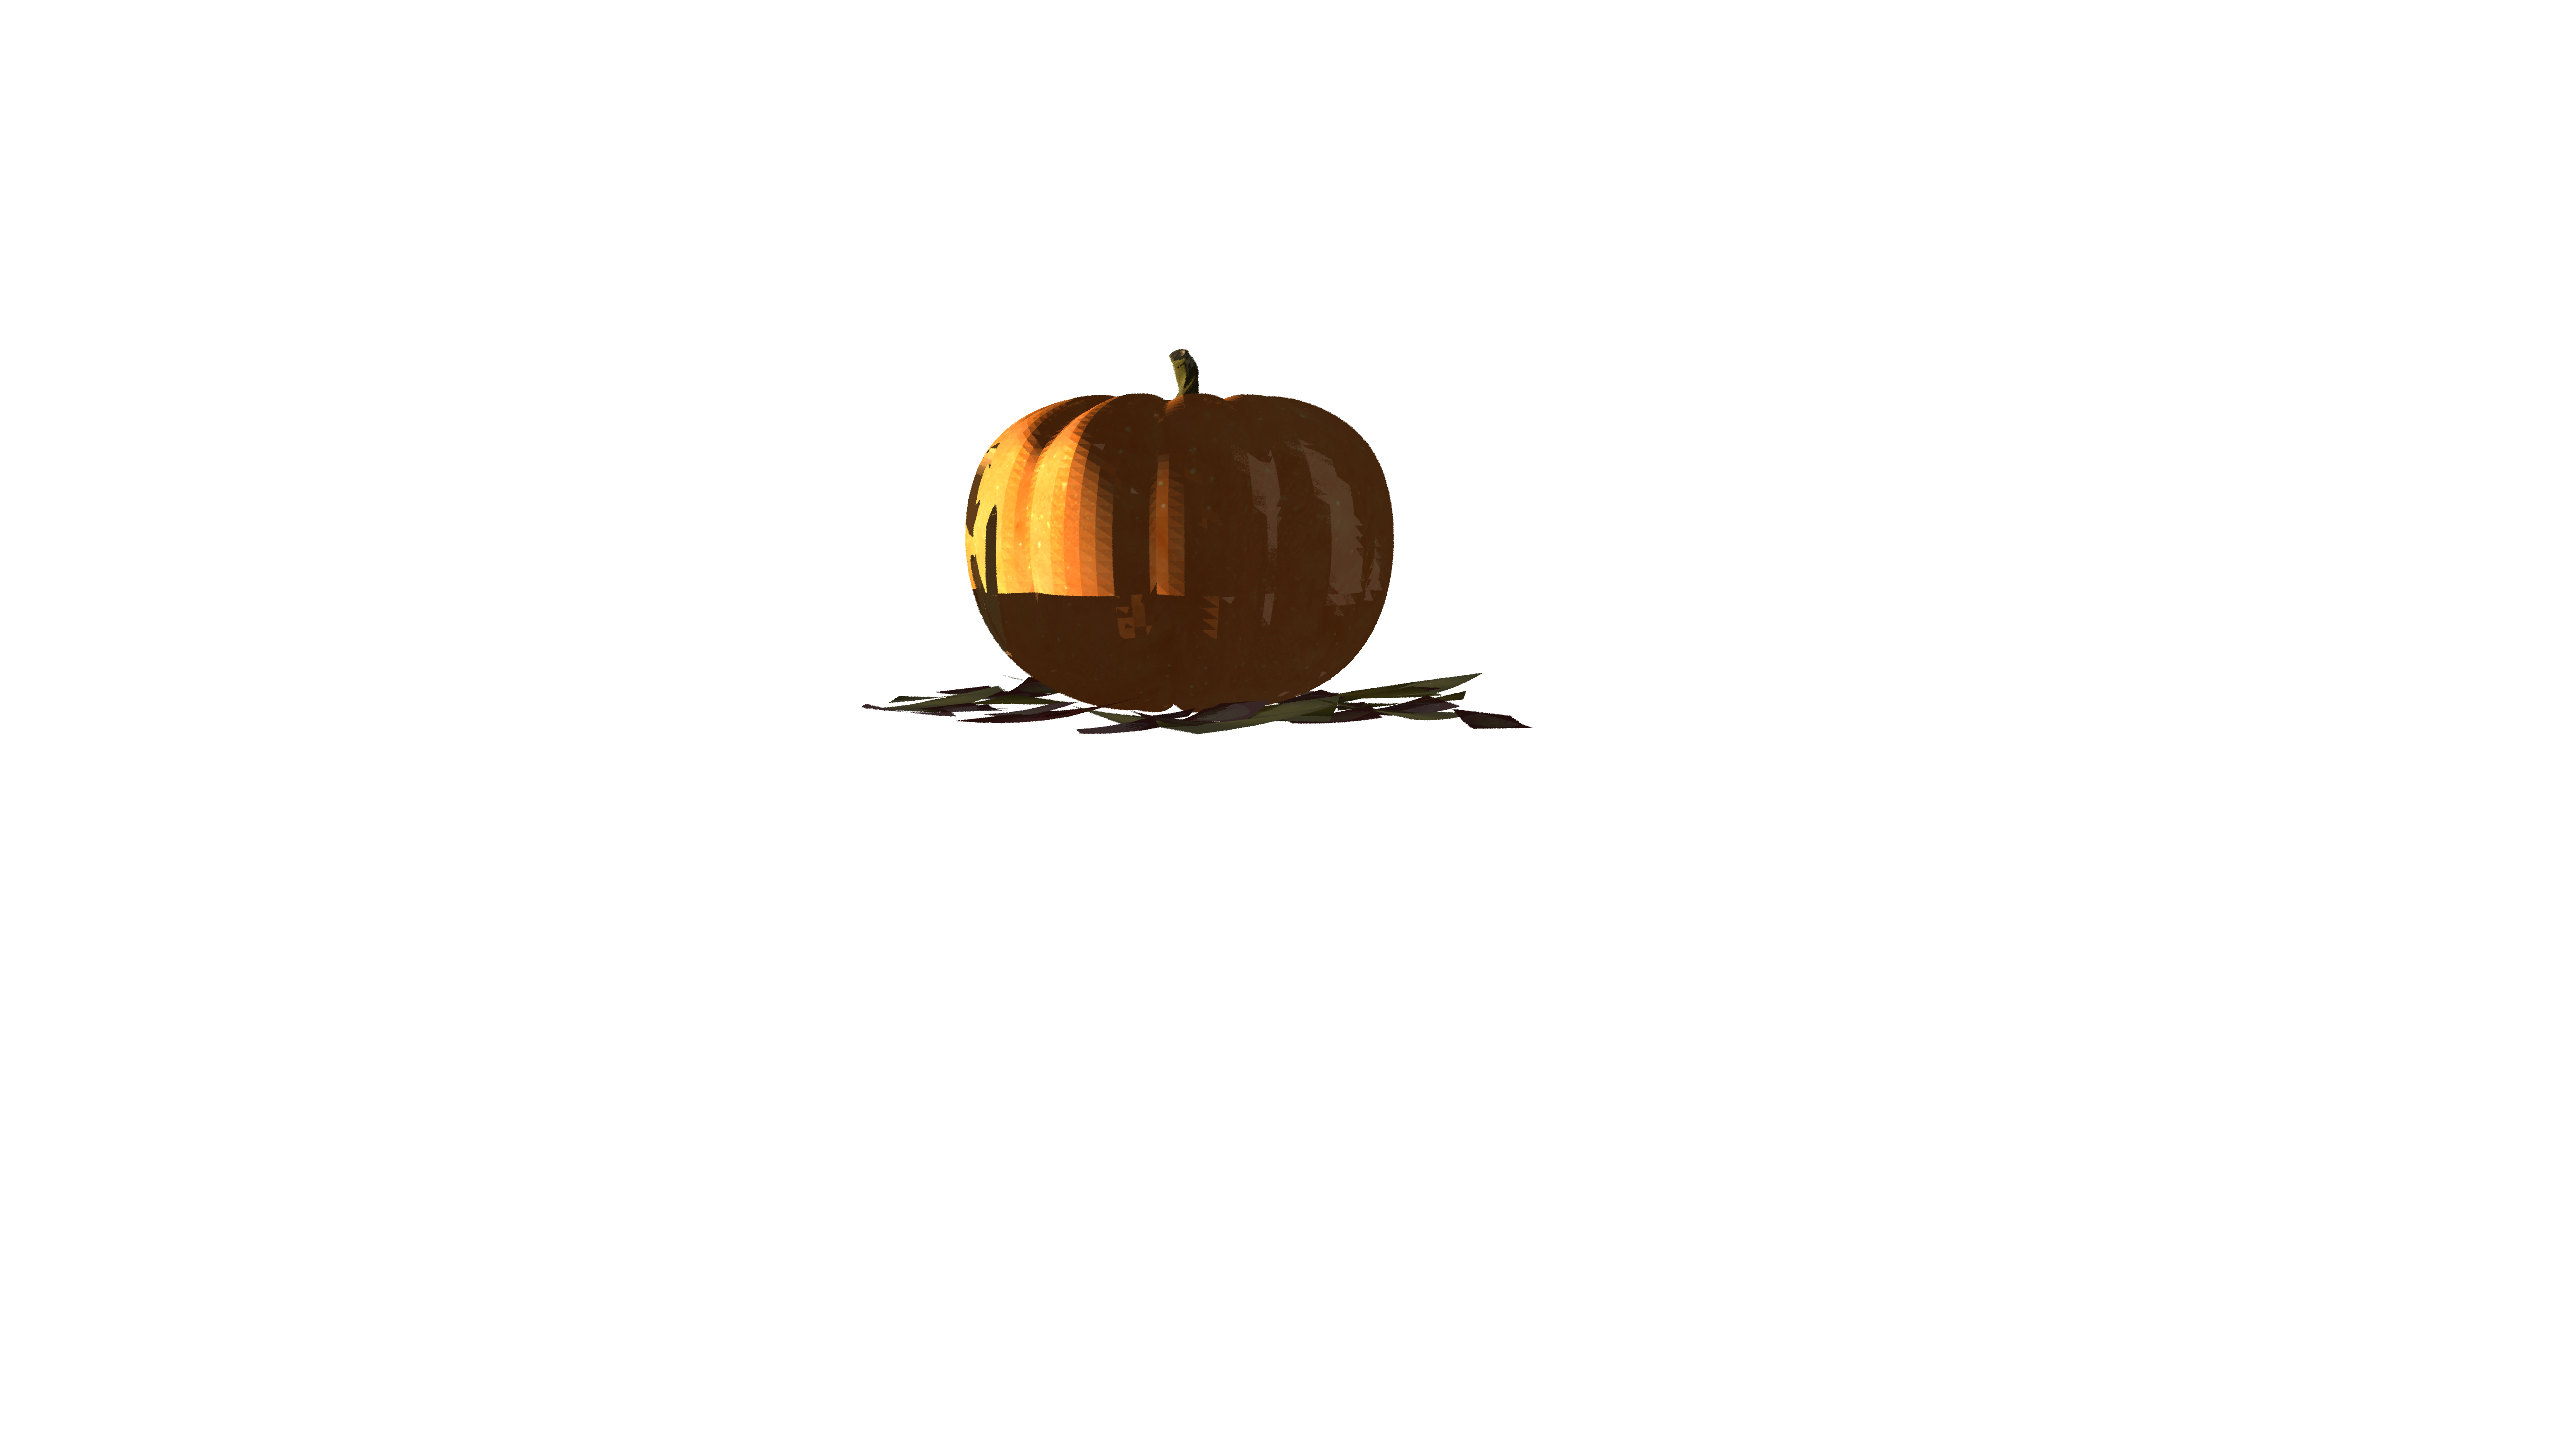
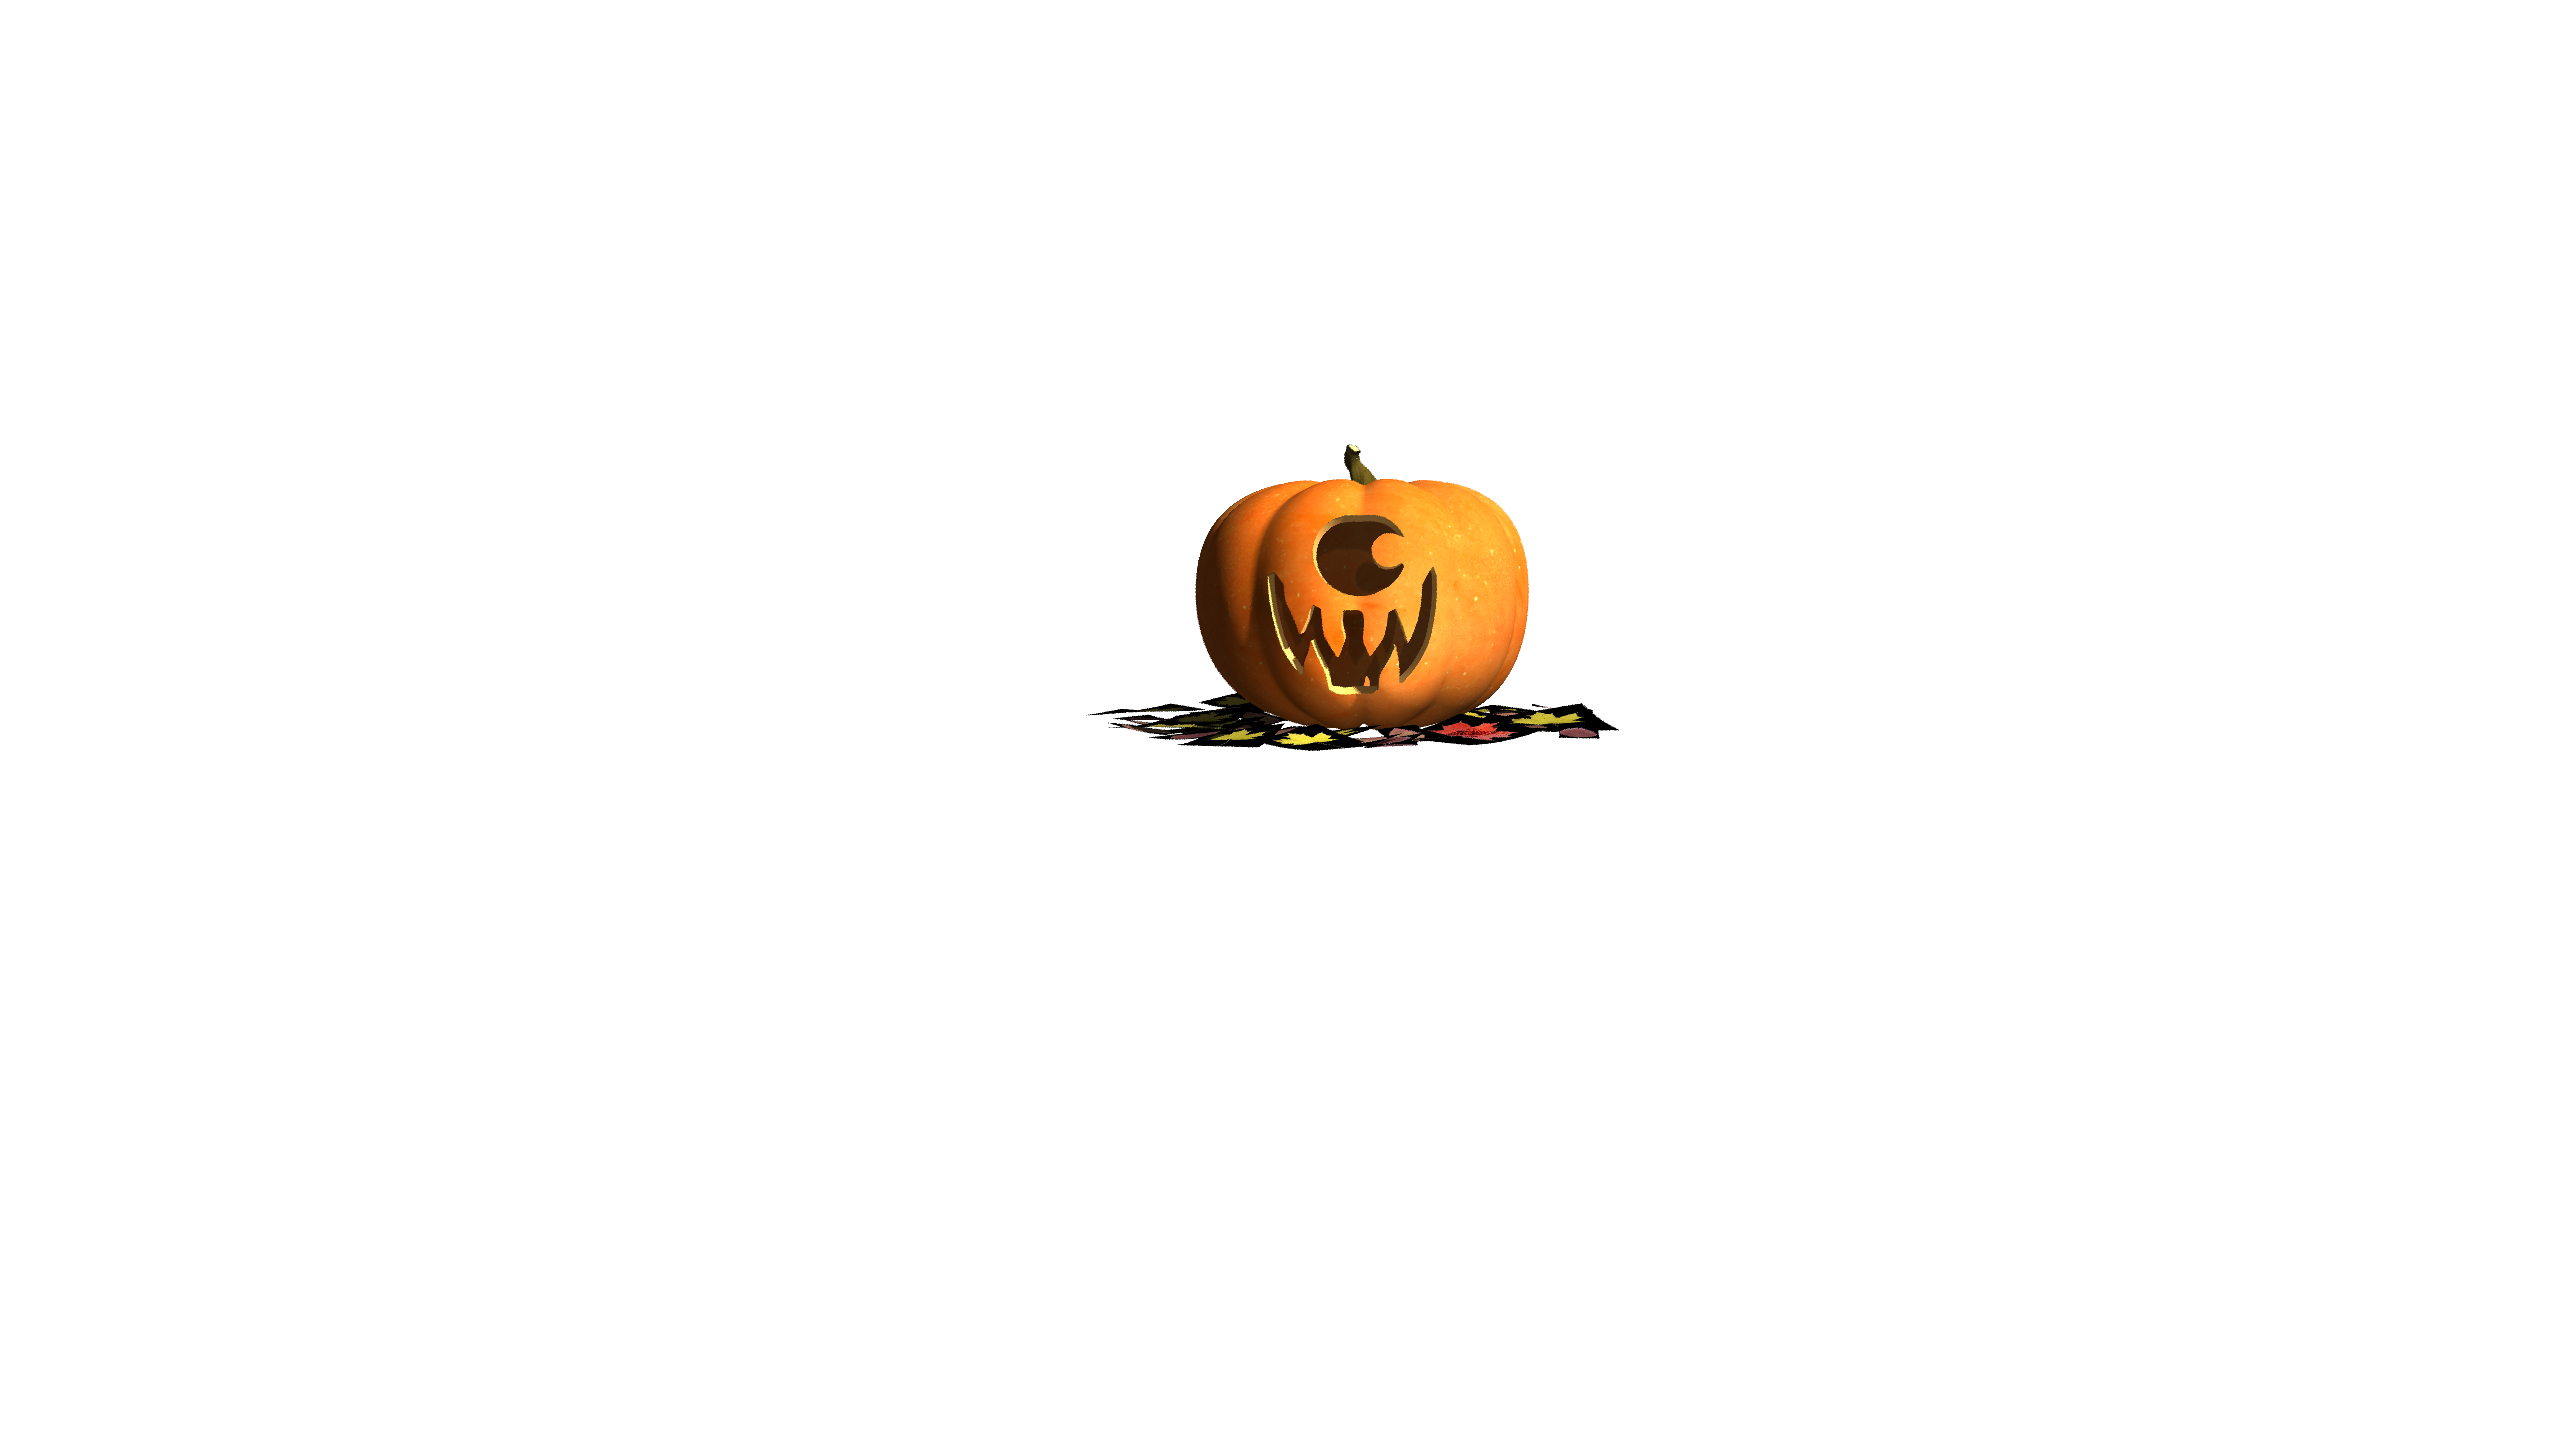
实现基于点光源和方向光的光追

Changed region(s): [[0.3438, 0.25, 0.625, 0.5312]]

diff --git a/src/Light.cpp b/src/Light.cpp
@@ -142,6 +142,7 @@ void PointLight::SetQuadratic(float quadratic)
 
 void PointLight::Bind(Shader& shader, glm::mat4 globalTransform)
 {
+	shader.Bind();
 	glm::vec3 position = globalTransform * glm::vec4(m_LightPos, 1.0f);
 	std::string number = std::to_string(pointLightID[this]);
 	shader.setUniformVec3f("pointLights[" + number + "].lightPos", position);
@@ -151,6 +152,7 @@ void PointLight::Bind(Shader& shader, glm::mat4 globalTransform)
 	shader.setUniform1f("pointLights[" + number + "].constant", m_Constant);
 	shader.setUniform1f("pointLights[" + number + "].linear", m_Linear);
 	shader.setUniform1f("pointLights[" + number + "].quadratic", m_Quadratic);
+	shader.Unbind();
 }
 
 void PointLight::Update(float deltaTime)

diff --git a/src/Mesh.h b/src/Mesh.h
@@ -19,10 +19,10 @@ struct Vertex {
 
 struct Triangle {
     glm::vec4 position[3];
-    glm::vec4 normal;
+    glm::vec4 normal[3];
     glm::vec4 texCoords[3];
-    glm::vec4 tangent;
-    glm::vec4 bitangent;
+    glm::vec4 tangent[3];
+    glm::vec4 bitangent[3];
     Material material;
 };
 

diff --git a/src/VertexBuffer.h b/src/VertexBuffer.h
@@ -10,6 +10,6 @@ public:
 
 	void Bind() const;
 	void Unbind() const;
-
+	void setData(const void* data, unsigned int size);
 
 };
